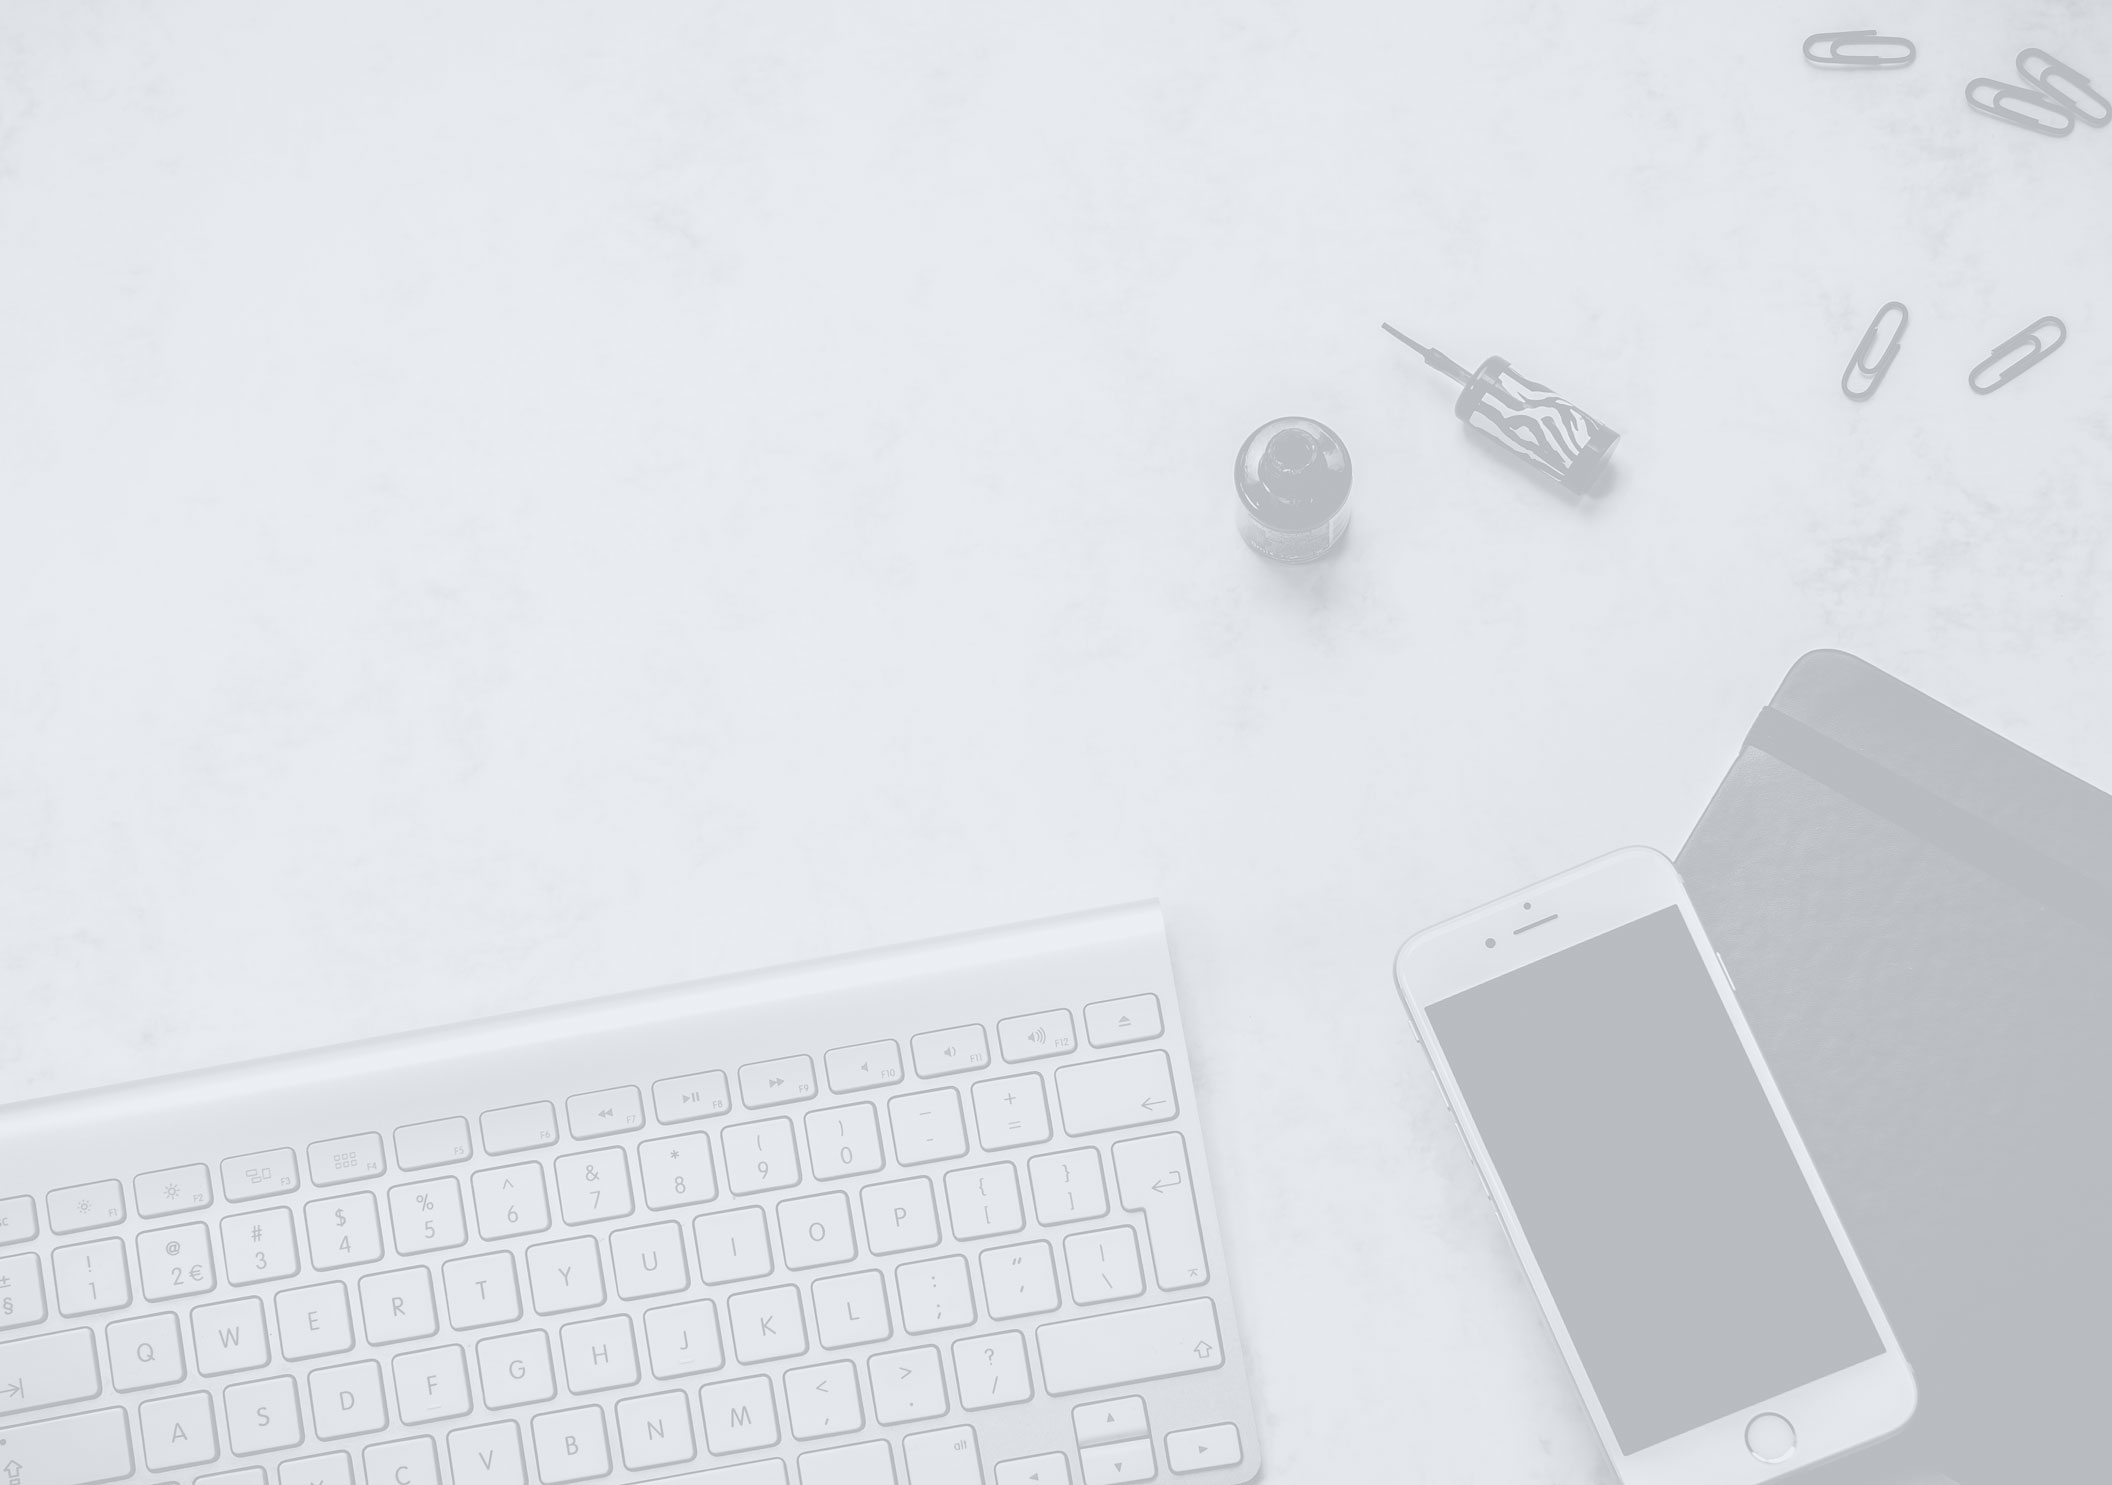
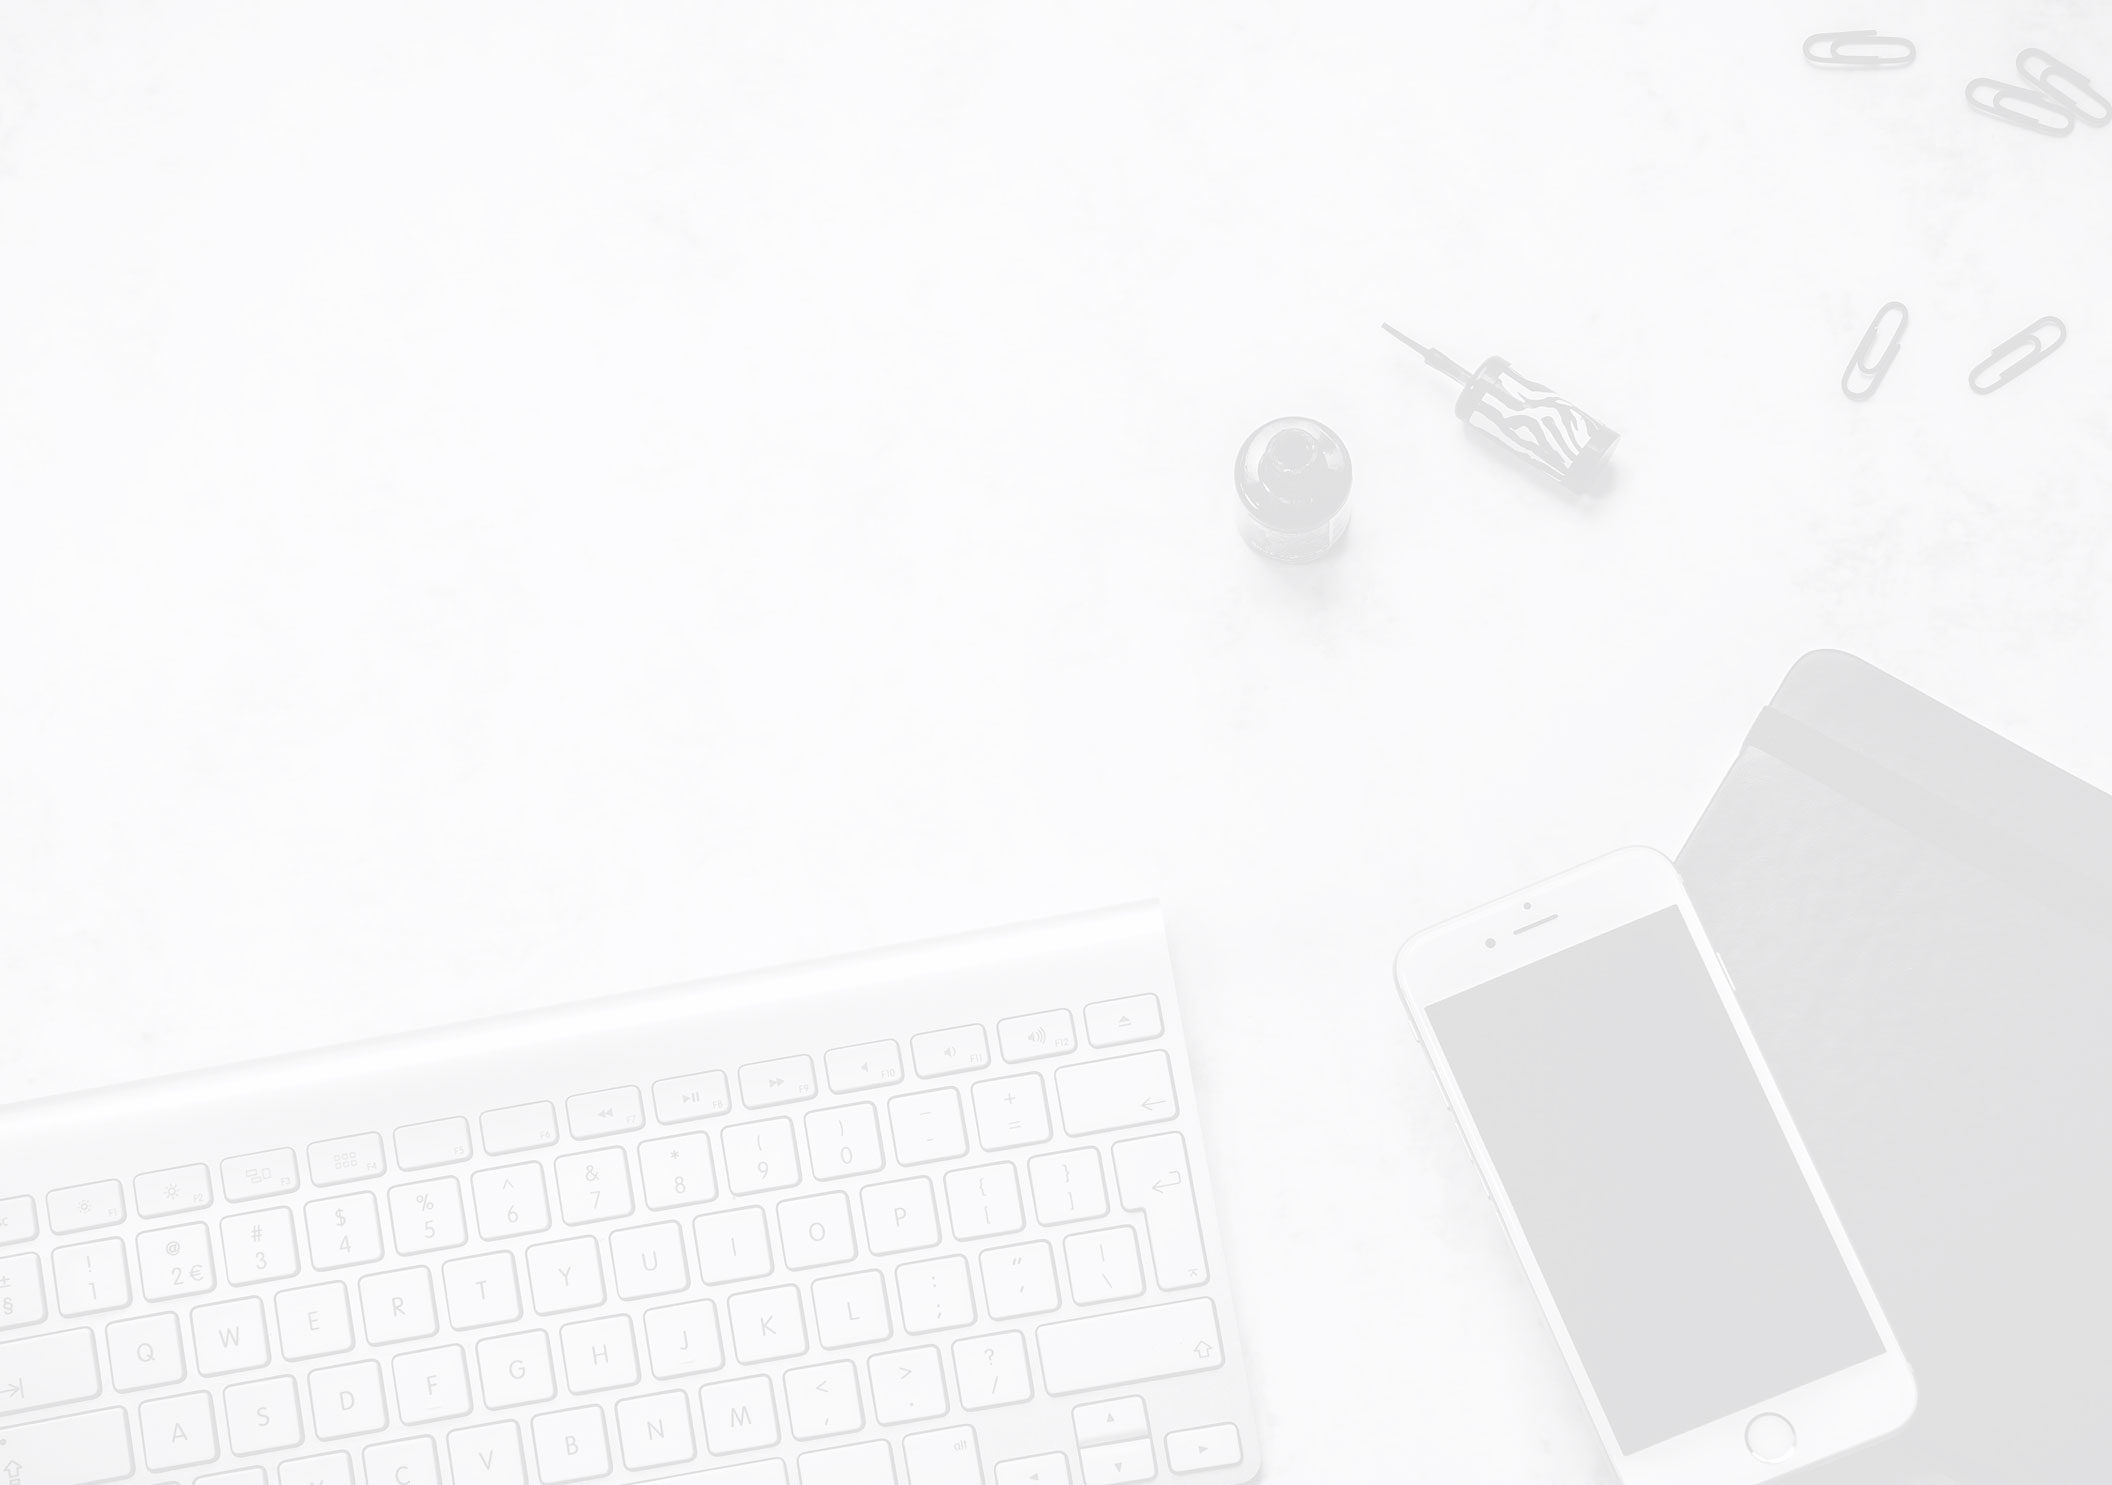
Styling main page still

diff --git a/src/components/Main.jsx b/src/components/Main.jsx
@@ -32,22 +32,22 @@ class Main extends Component {
               <div className='z-10'>
                 <button
                   onClick={ () => this.signup() } 
-                  className='bg-blue hover:bg-blue-dark hover:border-blue-dark text-white border border-blue mx-6 lg:mx-6 py-2 lg:py-4 px-4 lg:px-8 text-xl rounded z-10'>
+                  className='bg-blue hover:bg-blue-dark hover:border-blue-dark text-white border border-blue mx-6 lg:mx-6 py-2 lg:py-4 px-4 lg:px-8 text-xl rounded z-10 mb-8'>
                   Sign Up
                 </button> 
               </div>
             </div>
-            <div className='w-full flex justify-center flex-col lg:flex-row pt-12'>
+            <div className='flex justify-center flex-col lg:flex-row p-6 bg-white shadow-lg rounded-lg'>
               <div className='m-4 lg:w-full box-height rounded'>
-                <div className='bg-feature border border-grey rounded image-height'></div>
+                <div className='bg-feature border border-grey rounded image-height shadow'></div>
                 <div className='font-josefin text-lg text-center pt-4 lg:pt-8 text-grey-darker'>Log your time</div>
               </div>
               <div className='m-4 lg:w-full box-height rounded'>
-                <div className='bg-task border border-grey rounded image-height'></div>
+                <div className='bg-task border border-grey rounded image-height shadow'></div>
                 <div className='font-josefin text-lg text-center pt-4 lg:pt-8 text-grey-darker'>Track task completion</div>
               </div>
               <div className='m-4 lg:w-full box-height rounded'>
-                <div className='bg-newproject border border-grey rounded image-height'></div>
+                <div className='bg-newproject border border-grey rounded image-height shadow'></div>
                 <div className='font-josefin text-lg text-center pt-4 lg:pt-8 text-grey-darker'>Create projects for yourself and teams</div>
               </div>
             </div>

diff --git a/src/images.css b/src/images.css
@@ -24,7 +24,7 @@
 }
 
 .bg-main {
-  background-image: url("./images/mainbackgreyer.jpg");
+  background-image: url("./images/mainback.jpg");
   top: 0px;
   left: 0;
   width: 100%;
